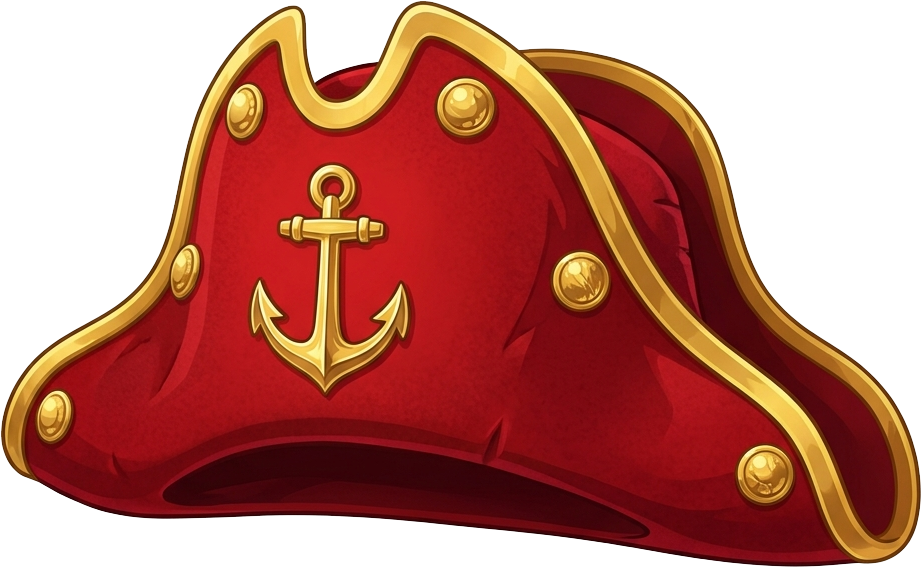
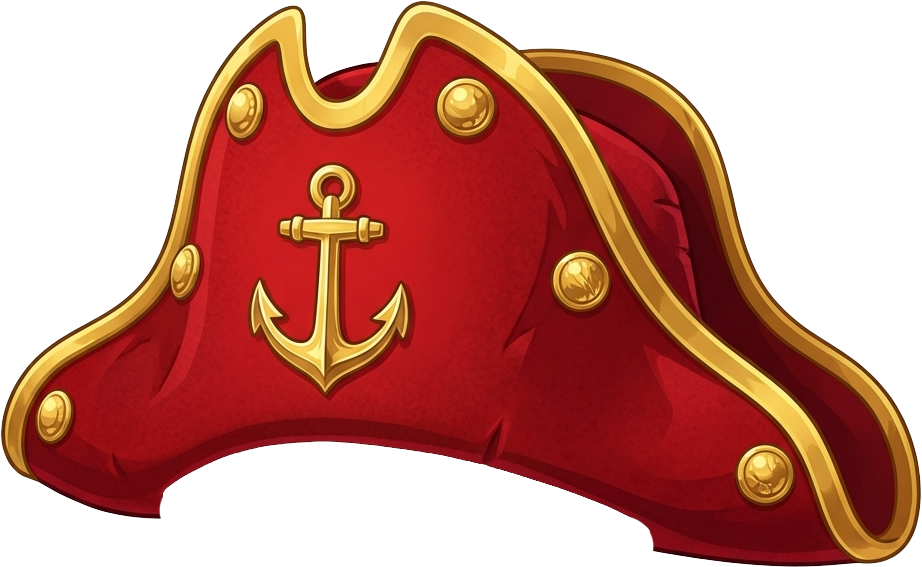
style(treasure-divide/captain): tune hat sizing + nudge, refresh hat art
Captain theme accessory tuning + a new hat.png:
- kThemeAccessoryFaceWidthScale[0][0] = 1.6 — hat box now spans 1.6x
  the player's face bounding-box width, so the brim overhangs ~30%
  past each side of the face and tracks head width automatically.
- kThemeAccessoryOffsetMultipliers[0][0] = Offset(0.08, -0.10) —
  hat shifted right 8% and up 10% of its own size so the brim
  aligns with the head and sits a touch above it.
- Updated hat.png artwork.

Changed region(s): [[0.1518, 0.7795, 0.7289, 0.9894]]

diff --git a/dart_games/lib/widgets/treasure_divide/pirate_avatar_widget.dart b/dart_games/lib/widgets/treasure_divide/pirate_avatar_widget.dart
@@ -149,11 +149,17 @@ const Map<int, Map<int, double>> kThemeAccessorySizeMultipliers = {
 ///
 /// Missing entries default to `Offset.zero` (no nudge).
 const Map<int, Map<int, Offset>> kThemeAccessoryOffsetMultipliers = {
-  // Captain parrot — pulled inward toward the upper-right of the
-  // avatar circle so it peeks out from behind. Originally -0.5/+0.5
-  // (full half-step inward) which hid too much of the bird; bumped
-  // 20% back toward the corner (up + right) to expose more.
-  0: {2: Offset(-0.30, 0.30)},
+  // Captain (theme 0):
+  //   hat (0) — shifted right 8% and up 10% of its own size so the
+  //             brim aligns with the head and sits a touch above it.
+  //   parrot (2) — pulled inward toward the upper-right of the avatar
+  //                circle so it peeks out from behind. Originally
+  //                -0.5/+0.5 (full half-step inward) hid too much of
+  //                the bird; bumped 20% back toward the corner.
+  0: {
+    0: Offset(0.08, -0.10),
+    2: Offset(-0.30, 0.30),
+  },
 };
 
 /// Set of accessories rendered BEHIND the base avatar (between the
@@ -189,11 +195,11 @@ const Map<int, Set<int>> kAccessoriesBehindAvatar = {
 /// so you can dial a face-width-scaled sprite a touch larger/smaller
 /// without changing the head-width baseline.
 const Map<int, Map<int, double>> kThemeAccessoryFaceWidthScale = {
-  // Captain hat — scaled to the player's actual head width so wide
-  // faces get a wider hat and narrow faces get a narrower one.
-  // Starting at 1.0 (hat brim matches face width); tune up for more
-  // brim overhang or down for a cap that sits inside the head outline.
-  0: {0: 1.0},
+  // Captain hat — accSize = faceBoundingBoxWidth × avatarSize × 1.6, so
+  // the hat box spans 1.6× the player's actual face bbox width (brim
+  // overhangs ~30% past each side of the face). Tracks head width
+  // automatically — wide-faced players get a proportionally wider hat.
+  0: {0: 1.6},
 };
 
 // ─── Anchor position resolver ────────────────────────────────────────────────
@@ -475,10 +481,16 @@ class PirateAvatarWidget extends StatelessWidget {
         // 30–35% of the avatar size (≤ 110px logical for the 300px active
         // avatar), so 256px gives ~2× headroom for hi-DPI without keeping
         // multi-MB rasters resident.
+        //
+        // Policy MUST be `fit` (not the default `exact`) — non-square
+        // accessories (e.g. captain hat 922×567) would otherwise decode
+        // as a squished 256×256 bitmap and BoxFit.contain can't recover
+        // the original aspect from a pre-distorted source.
         image: ResizeImage(
           AssetImage(assetPath),
           width: 256,
           height: 256,
+          policy: ResizeImagePolicy.fit,
         ),
         fit: BoxFit.contain,
         errorBuilder: (_, __, ___) => const SizedBox.shrink(),
